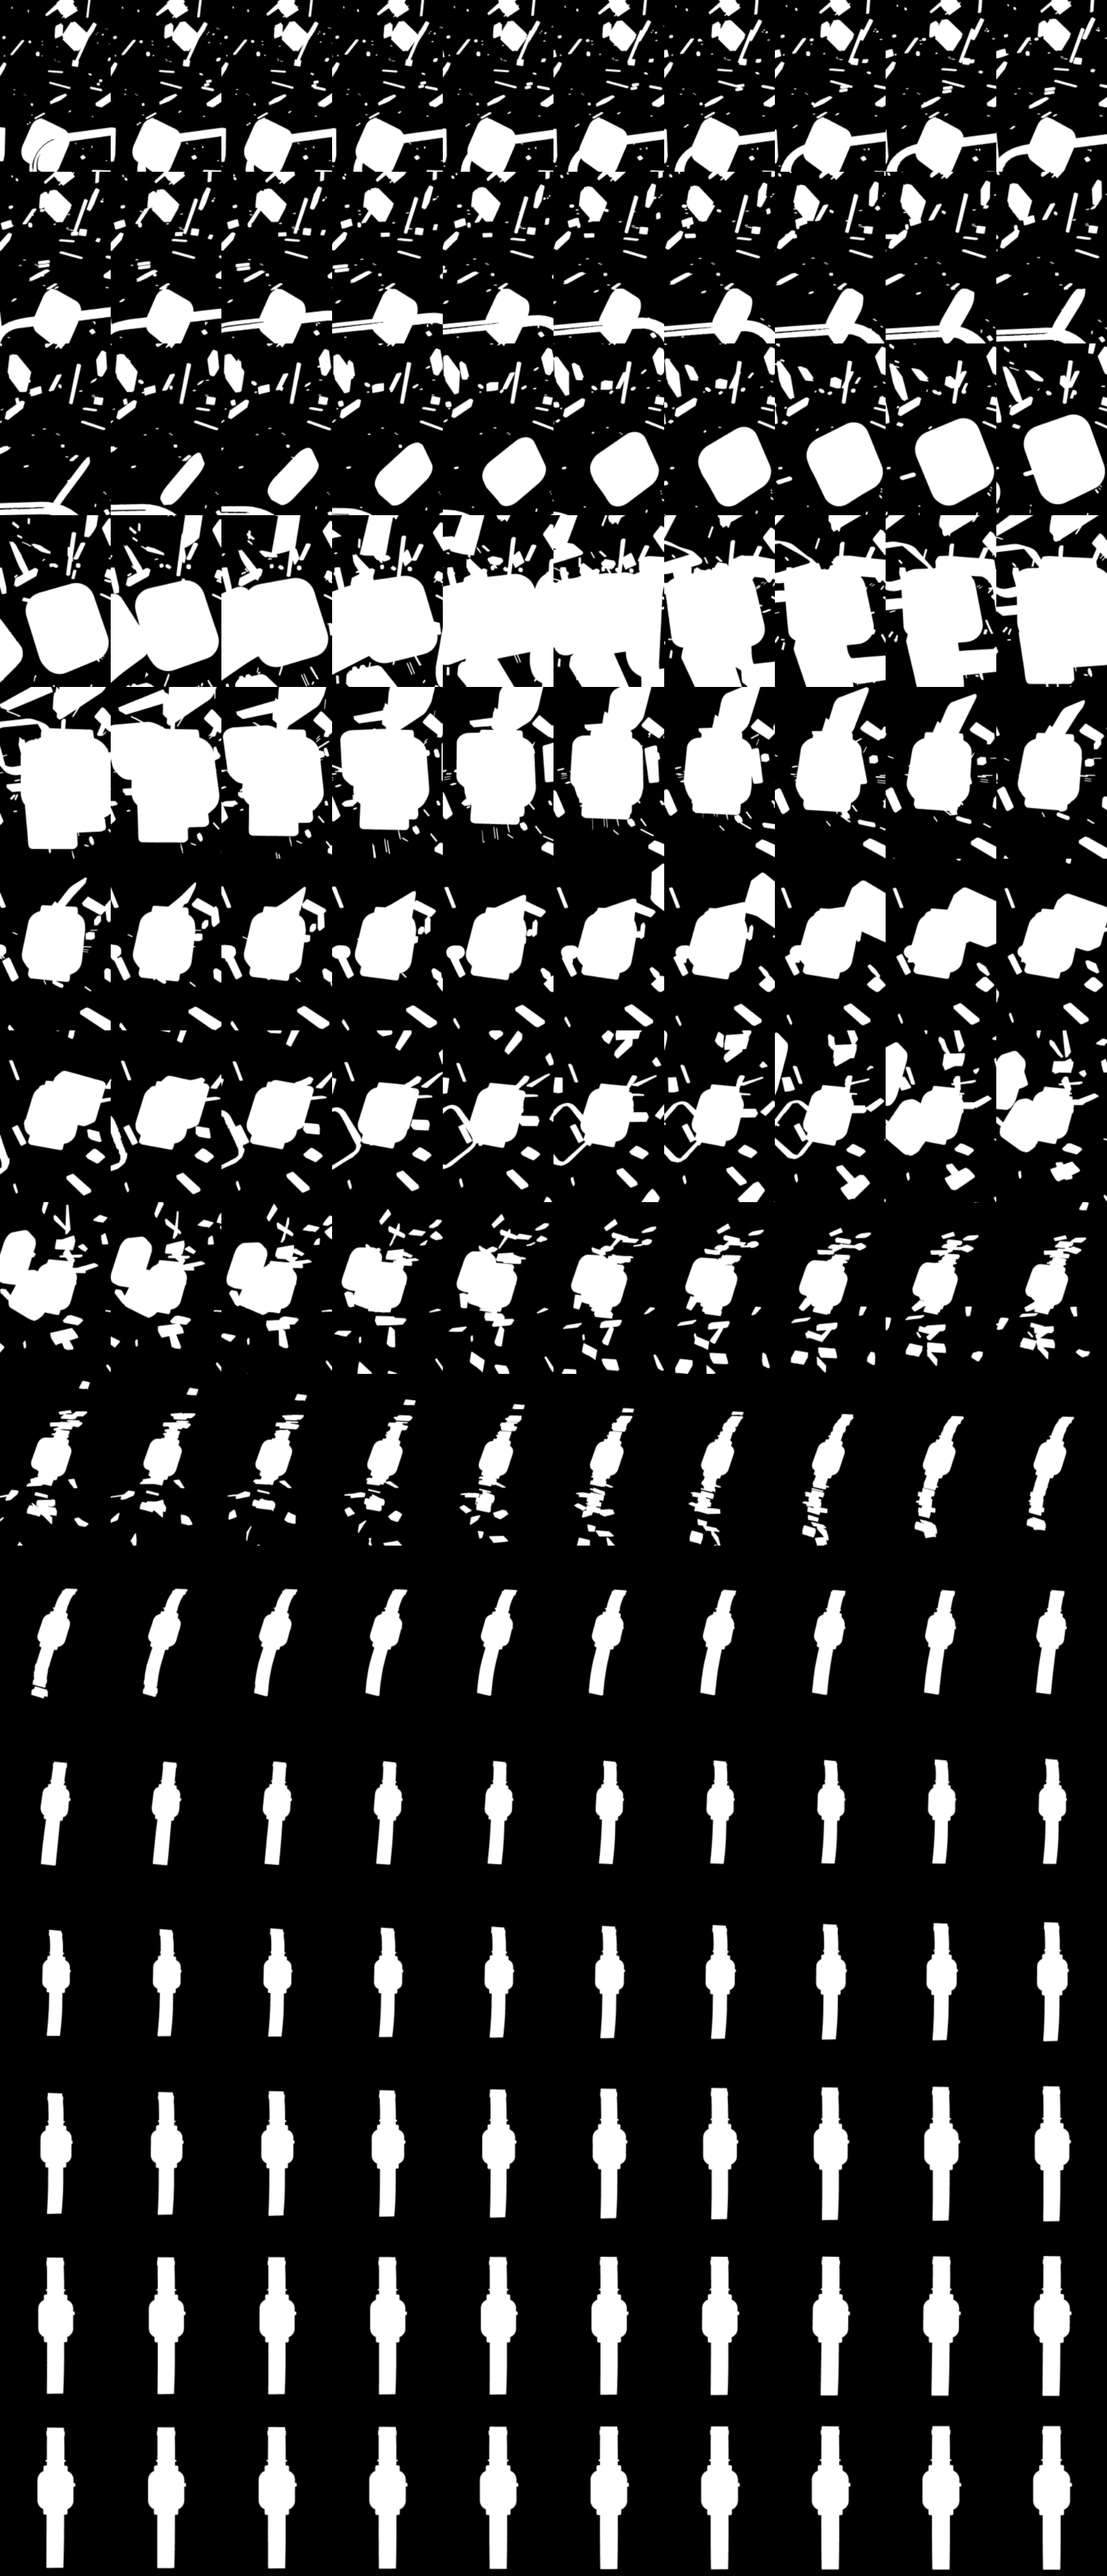
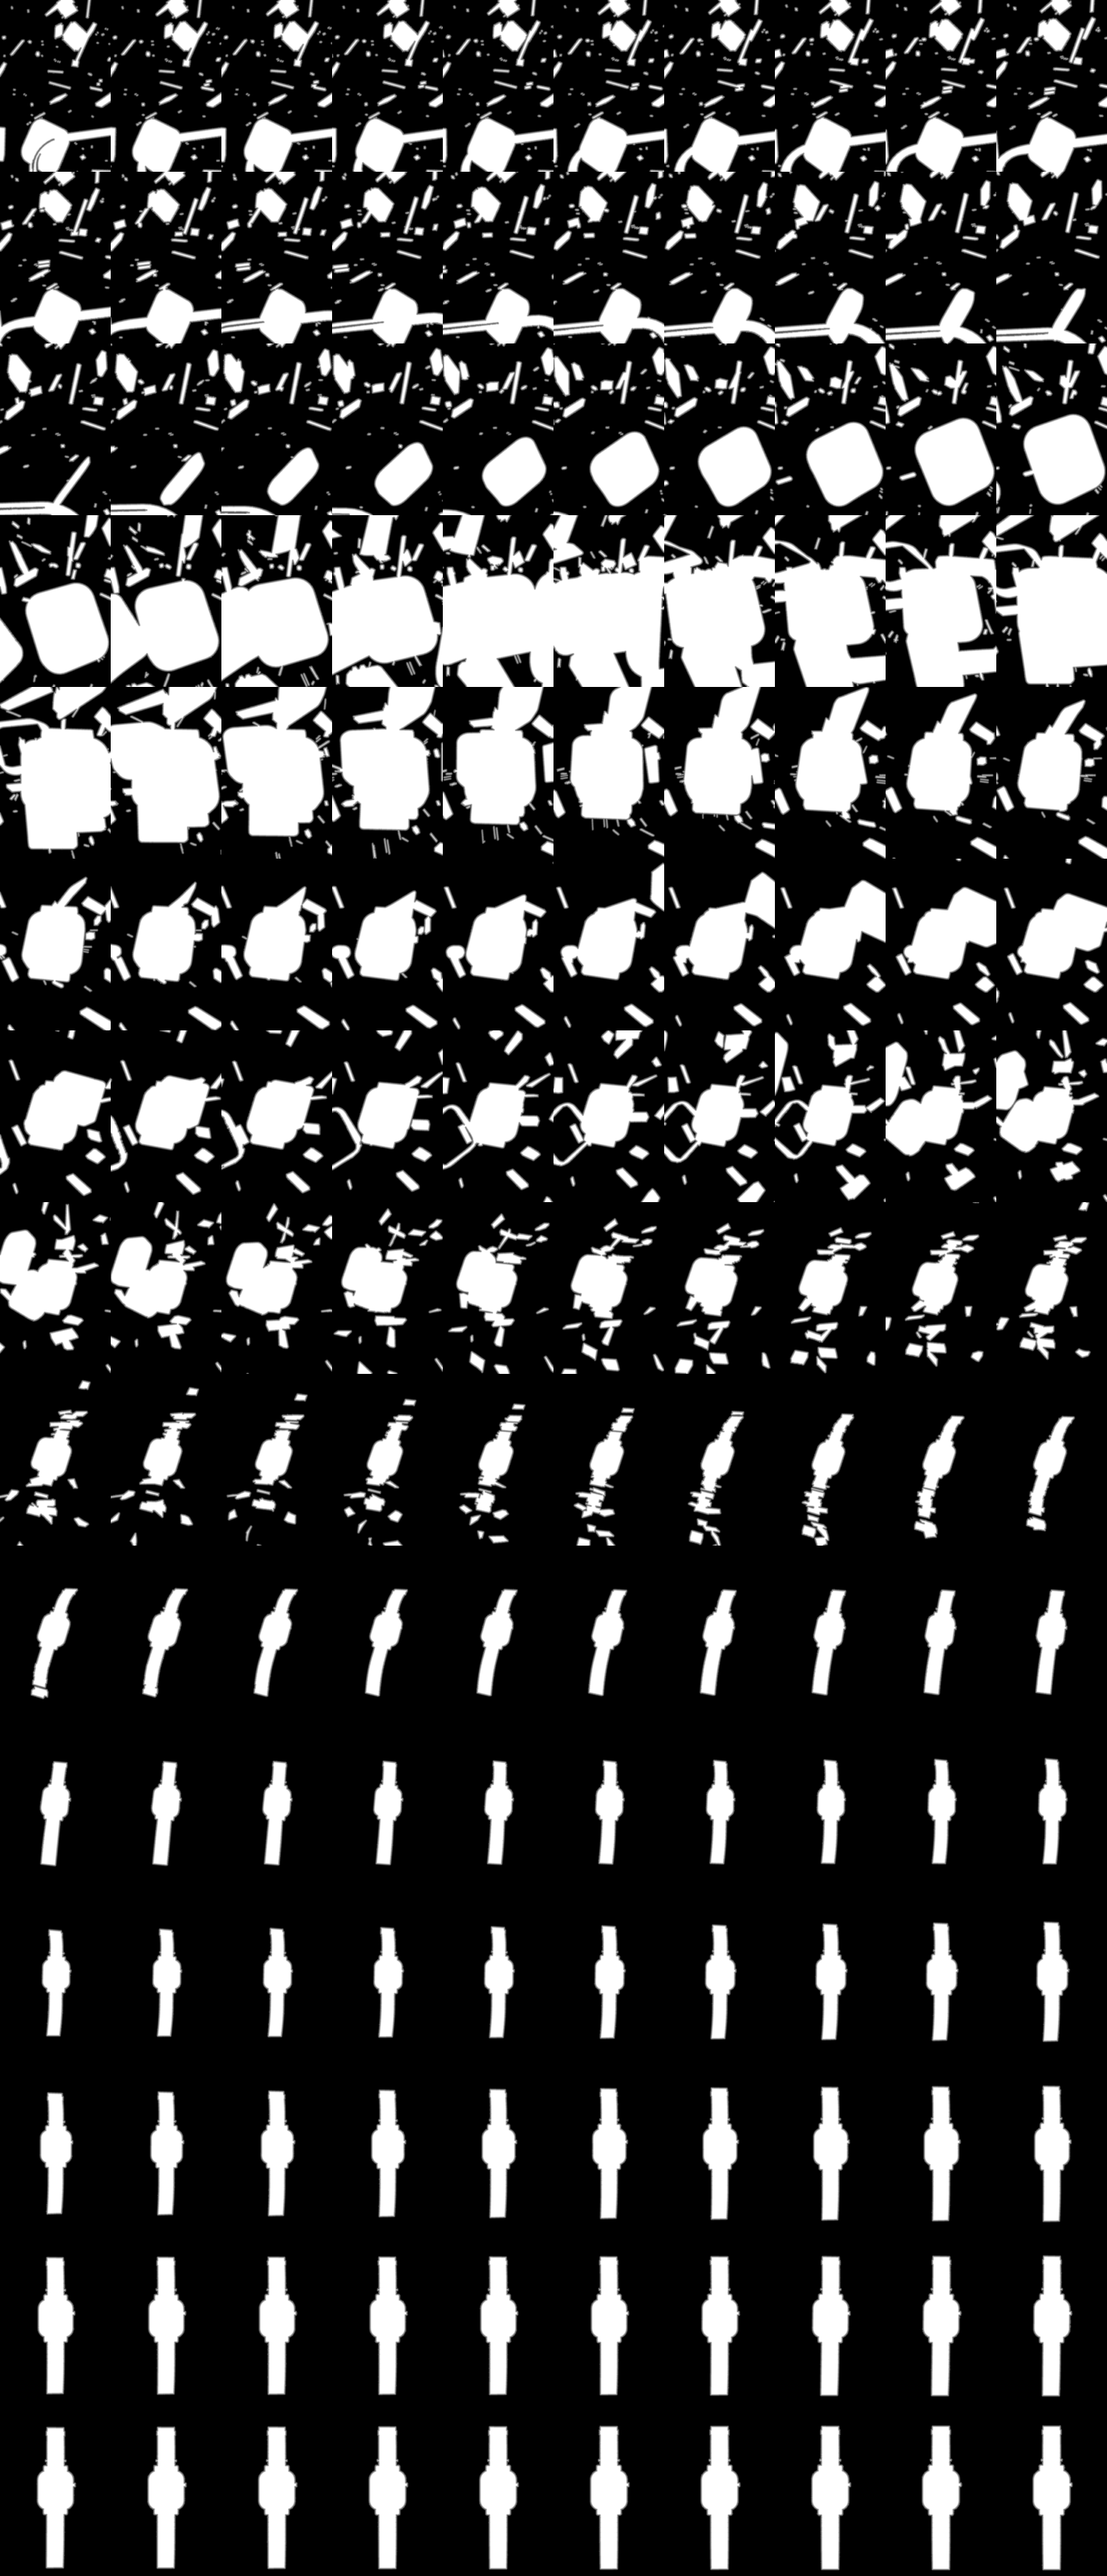
Site v2: the backlit rim is a thin edge, not a halo (cut-outs stored as distance fields)
Claude-Session: https://claude.ai/code/session_01T2gZhBzrAQjt1wDoUZ5zM9

diff --git a/web/app/(marketing)/_components/atmosGL.ts b/web/app/(marketing)/_components/atmosGL.ts
@@ -8,11 +8,11 @@
 // invisible proxies (.pq-pin.has-gl hides them), and every frame the shader reads their opacity, scale and position.
 // No WebGL, or a lost context: the proxies stay visible and the CSS version shows instead.
 //
-// Behind the watch, not over it: every film frame has a cut-out mask, made once from the frames by
-// scripts/film-masks.py (ground connected to the frame's edge is background; everything else, the dark screen and
-// black strap included, is the watch). The masks sit in one sheet per frame set. The shader takes the current frame's
-// mask, mapped through the same cover crop the film canvas uses, draws the light only on the background, and lets
-// the watch's silhouette catch a soft backlit rim.
+// Behind the watch, not over it: every film frame has a cut-out, made once from the frames by scripts/film-masks.py
+// (ground connected to the frame's edge is background; everything else, the dark screen and black strap included, is
+// the watch) and stored as the distance to its edge, one sheet per frame set. The shader takes the current frame's
+// tile, mapped through the same cover crop the film canvas uses, ends the light exactly at the silhouette and draws a
+// thin backlit rim just inside it (about two CSS pixels: a rim, not a halo).
 
 import MASKS from "../../../public/media/film/watch/masks.json";
 
@@ -29,11 +29,13 @@ uniform vec2 uRes; uniform float uT, uAsp;
 uniform float uBlue, uBS, uGreen, uGS, uHaze, uHazeY, uBeam, uBeamRot, uFloor, uFloorY, uPg, uHasMask;
 uniform sampler2D uMask;
 uniform vec2 uFit, uTile, uCell, uSheet;   // cover crop (canvas size / drawn frame size), tile size, this frame's cell, sheet size
-float solid(vec2 uv){
+uniform float uSpread, uAA;                // the distance field's reach in CSS pixels, and half a canvas pixel in CSS pixels
+// distance to the watch's silhouette in CSS pixels: positive inside the watch, negative on the ground behind it
+float edge(vec2 uv){
   vec2 f = 0.5 + (uv - 0.5) * uFit;                                    // screen -> frame, as the film canvas draws it
-  if (f.x < 0.0 || f.y < 0.0 || f.x > 1.0 || f.y > 1.0) return 0.0;
+  if (f.x < 0.0 || f.y < 0.0 || f.x > 1.0 || f.y > 1.0) return -uSpread;
   vec2 t = clamp(f * uTile, vec2(0.5), uTile - 0.5);                   // stay inside this frame's tile
-  return texture2D(uMask, (uCell * uTile + t) / uSheet).r;
+  return (texture2D(uMask, (uCell * uTile + t) / uSheet).r - 0.5) * 2.0 * uSpread;
 }
 float hash(vec2 p){ p = fract(p * vec2(123.34, 456.21)); p += dot(p, p + 45.32); return fract(p.x * p.y); }
 float noise(vec2 p){ vec2 i = floor(p), f = fract(p); f = f * f * (3.0 - 2.0 * f);
@@ -77,13 +79,10 @@ void main(){
   // the watch and its parts: no light on them from behind; a rim where their edge meets the light; a little of the
   // light's colour on their bright metal
   if (uHasMask > 0.5) {
-    float m = solid(uv);
-    // the rim: a thin band just inside the silhouette, from the mask's (soft, anti-aliased) slope
-    vec2 e = 1.5 / (uTile * uFit) ;
-    float gx = solid(uv + vec2(e.x, 0.0)) - solid(uv - vec2(e.x, 0.0));
-    float gy = solid(uv + vec2(0.0, e.y)) - solid(uv - vec2(0.0, e.y));
-    float rim = smoothstep(0.08, 0.6, length(vec2(gx, gy))) * smoothstep(0.35, 0.9, m);
-    c = c * (1.0 - m) + c * rim * 1.4;
+    float d = edge(uv);
+    float m = smoothstep(-uAA, uAA, d);                                   // 1 on the watch, 0 behind it, one canvas pixel of edge
+    float rim = m * (1.0 - smoothstep(1.6, 1.6 + 2.0 * uAA, d));          // the first couple of pixels inside the silhouette
+    c = c * (1.0 - m) + c * rim * 1.25;
   }
   // vignette: the edges of the frame stay dark, so the light reads as being in a room, not painted on the glass
   vec2 vd = (uv - 0.5) * vec2(uAsp * 0.85, 1.0) / max(sm, 0.75); c *= mix(0.3, 1.0, smoothstep(1.0, 0.25, length(vd)));
@@ -93,7 +92,7 @@ void main(){
   gl_FragColor = vec4(max(c, 0.0), 1.0);
 }`;
 
-const NAMES = ["uRes", "uT", "uAsp", "uBlue", "uBS", "uGreen", "uGS", "uHaze", "uHazeY", "uBeam", "uBeamRot", "uFloor", "uFloorY", "uPg", "uHasMask", "uMask", "uFit", "uTile", "uCell", "uSheet"] as const;
+const NAMES = ["uRes", "uT", "uAsp", "uBlue", "uBS", "uGreen", "uGS", "uHaze", "uHazeY", "uBeam", "uBeamRot", "uFloor", "uFloorY", "uPg", "uHasMask", "uMask", "uFit", "uTile", "uCell", "uSheet", "uSpread", "uAA"] as const;
 
 /** Starts the shader on `canvas`. `read` returns the current light values. Returns a stop function, or null without WebGL. */
 export function startAtmos(canvas: HTMLCanvasElement, host: HTMLElement, read: () => AtmosValues, hold: () => boolean = () => false, film?: { canvas: HTMLCanvasElement; set: () => "wide" | "tall" } | null): (() => void) | null {
@@ -146,11 +145,14 @@ export function startAtmos(canvas: HTMLCanvasElement, host: HTMLElement, read: (
     gl.uniform2f(U.uFit, cw / (m.frame[0] * s), ch / (m.frame[1] * s));
     gl.uniform2f(U.uTile, m.tile[0], m.tile[1]); gl.uniform2f(U.uSheet, m.sheet[0], m.sheet[1]);
     gl.uniform2f(U.uCell, i % m.cols, Math.floor(i / m.cols));
+    gl.uniform1f(U.uSpread, m.spread * s); gl.uniform1f(U.uAA, Math.max(0.6, (0.75 * cw) / canvas.width));
     return true;
   };
-  // the light is soft, so it is drawn at 40% of the CSS size and the browser scales it up smoothly
+  // The light itself is soft, but it ends on the watch's silhouette, and that edge is only as sharp as this canvas.
+  // So: 80% of the CSS size, held under about 0.9 million pixels on big windows, and the browser scales it up.
   const size = () => {
-    const w = Math.max(2, Math.round(canvas.clientWidth * 0.4)), h = Math.max(2, Math.round(canvas.clientHeight * 0.4));
+    const cw = canvas.clientWidth, ch = canvas.clientHeight, k = Math.min(0.8, Math.sqrt(900000 / Math.max(1, cw * ch)));
+    const w = Math.max(2, Math.round(cw * k)), h = Math.max(2, Math.round(ch * k));
     if (canvas.width !== w || canvas.height !== h) { canvas.width = w; canvas.height = h; gl.viewport(0, 0, w, h); }
   };
   let raf = 0, visible = true, dark = false, lost = false;

diff --git a/web/scripts/film-masks.py b/web/scripts/film-masks.py
@@ -4,7 +4,13 @@ The light behind the watch (app/(marketing)/_components/atmosGL.ts) must fall on
 on the watch. A per-pixel colour test cannot tell the watch's dark screen or black strap from the near-black ground, so
 the mask is made here, once, from the frames themselves: the ground is one flat colour (#0c0b0e), and only ground that
 is connected to the edge of the frame counts as background. Everything else, including dark areas enclosed by the
-watch, is the watch. The mask is shrunk with an area filter (soft, anti-aliased edges) and packed into a grid.
+watch, is the watch.
+
+What is stored is not the cut-out itself but the distance to its edge (a signed distance field): mid-grey on the
+silhouette, lighter going into the watch, darker going out, over SPREAD film pixels each way. A small tile of distances
+gives back an edge far sharper than a small tile of coverage can, so the shader can end the light exactly at the
+silhouette and draw the backlit rim a couple of pixels wide. (A coverage mask at this size had edges 7 px soft on a
+laptop screen, and the rim drawn from it read as a wide pale halo round the whole watch.)
 
 Run from web/:  python3 scripts/film-masks.py
 Needs: Pillow, numpy, scipy. Re-run whenever the film frames are re-rendered.
@@ -14,12 +20,13 @@ import sys
 from pathlib import Path
 
 import numpy as np
-from PIL import Image, ImageFilter
+from PIL import Image
 from scipy import ndimage
 
 ROOT = Path(__file__).resolve().parent.parent / "public" / "media" / "film" / "watch"
 GROUND = np.array([12, 11, 14], dtype=np.int16)
 TOL = 7                      # lossy WebP moves the flat ground by a level or two
+SPREAD = 12                  # film pixels of distance kept each side of the edge (masks.json carries it to the shader)
 COLS = 10
 SETS = {"wide": (320, 200), "tall": (160, 248)}   # tile size; sheets stay under 4096 px on each side
 
@@ -30,9 +37,13 @@ def mask_of(path: Path, tile: tuple[int, int]) -> Image.Image:
     labels, _ = ndimage.label(near, structure=np.ones((3, 3), dtype=bool))
     edge = np.unique(np.concatenate([labels[0], labels[-1], labels[:, 0], labels[:, -1]]))
     background = np.isin(labels, edge[edge > 0])
-    solid = (~background).astype(np.uint8) * 255
-    small = Image.fromarray(solid, "L").resize(tile, Image.BOX)
-    return small.filter(ImageFilter.GaussianBlur(0.6))
+    solid = ~background
+    # distance to the silhouette in film pixels: positive inside the watch, negative outside
+    d = ndimage.distance_transform_edt(solid) - ndimage.distance_transform_edt(~solid)
+    d = np.where(solid, d - 0.5, d + 0.5)
+    field = np.clip(0.5 + d / (2 * SPREAD), 0, 1).astype(np.float32)
+    small = Image.fromarray(field, "F").resize(tile, Image.BOX)
+    return Image.fromarray(np.round(np.asarray(small) * 255).astype(np.uint8), "L")
 
 
 def main() -> None:
@@ -48,7 +59,7 @@ def main() -> None:
         out = ROOT / f"{name}-mask.png"
         sheet.save(out, optimize=True)
         fw, fh = Image.open(frames[0]).size
-        meta[name] = {"count": len(frames), "cols": COLS, "rows": rows, "tile": list(tile), "sheet": [sheet.width, sheet.height], "frame": [fw, fh]}
+        meta[name] = {"count": len(frames), "cols": COLS, "rows": rows, "tile": list(tile), "sheet": [sheet.width, sheet.height], "frame": [fw, fh], "spread": SPREAD}
         print(f"{out.name}: {len(frames)} frames, {sheet.width}x{sheet.height}, {out.stat().st_size // 1024} KB")
     (ROOT / "masks.json").write_text(json.dumps(meta, indent=1) + "\n")
 
